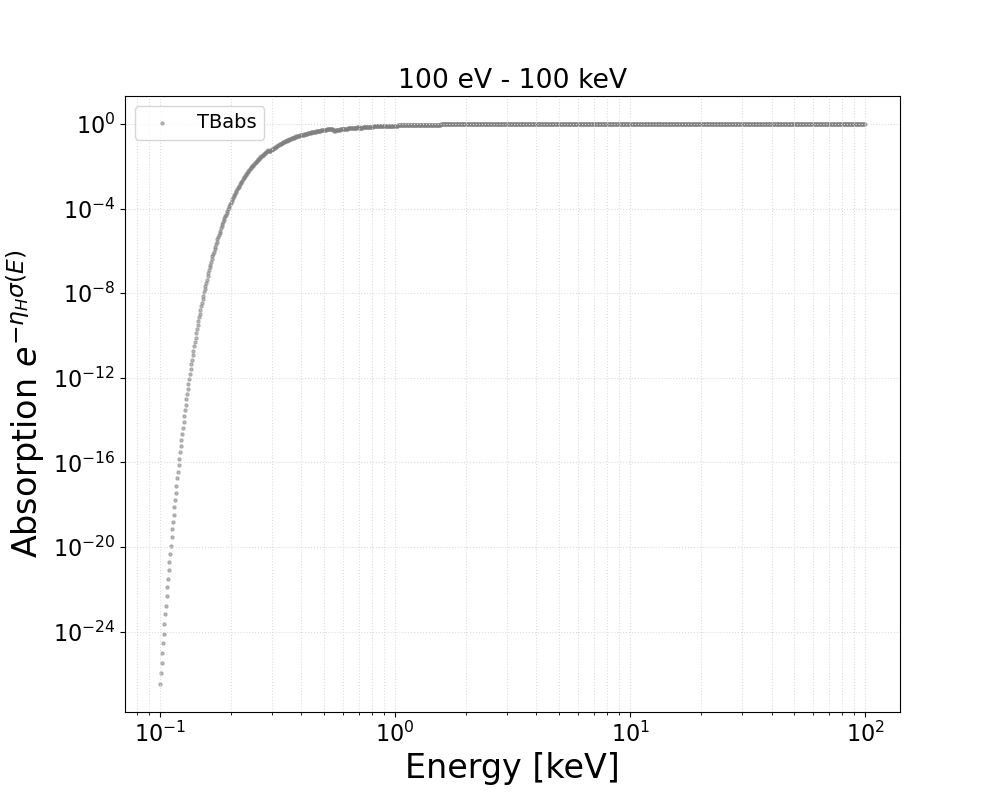
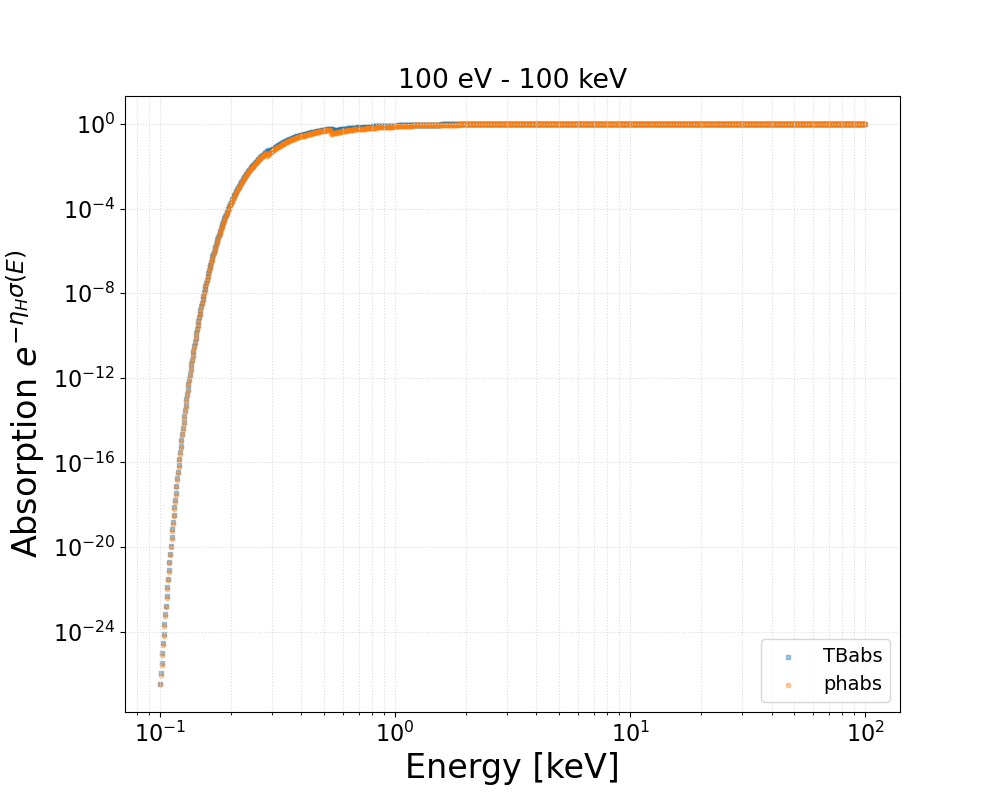
feat: plot both absorption tables, remove unused code

diff --git a/src/nHDeabsorb/absorption_plots/make_absorption_plots.py b/src/nHDeabsorb/absorption_plots/make_absorption_plots.py
@@ -1,4 +1,5 @@
 """
+Plot absorption tables in make_table/
 To run: [nHDeabsorb]$  python -m  absorption_plots.make_absorption_plots
 """
 
@@ -11,155 +12,52 @@ import numpy as np
 # Set global plot parameters
 plt.rcParams.update(
     {'font.size': 16, 'figure.figsize': (10, 8), 'axes.grid.which': 'both',
-     'grid.color': 'gainsboro', 'grid.linestyle': 'dotted', 'axes.grid': True, 'axes.labelsize': 24,
-     'legend.fontsize': 14})
+        'grid.color': 'gainsboro', 'grid.linestyle': 'dotted', 'axes.grid': True, 'axes.labelsize': 24,
+        'legend.fontsize': 14})
 
 
-def read_tcloutr_spec_data(fn):
-    """Read dat file `fn` created by user in XSpec using tcloutr.
+def plot_absorption_table(fn_abs_list, legend_list):
+    """Plot absorption values as a function of energy in `fn_abs_list`.
+    The first element of `fn_abs_list` corresponds to the first element of `legend_list`.
 
-    The format of this file (order of the columns and so their meanings) is completely determined by the user.
-    Check the XSpec commands that were issued to make sure this file is correctly read.
-
-    An example of `fn` is `spec_default_bin.dat`.
+    Parameters
+    ----------
+    fn_abs_list : list[str]
+        List of filenames of the absorption tables produced by XSpec in make_table/
+    legend_list : list[str]
+        Labels for each filename in `fn_abs_list` in plot legend
     """
-    # skip_rows ?
-    dat = pd.read_csv(fn, header=0, delimiter=' ')
-    # In keV
-    energy = dat.iloc[:, 0].to_numpy()
-    energy_half_bin_width = dat.iloc[:, 1].to_numpy()
-    # This is an energy flux (in keV/cm^2/s) if `eeufspec` was used to write this file
-    eflux = dat.iloc[:, 2].to_numpy()
-    eflux_err = dat.iloc[:, 3].to_numpy()
-    mdl_eflux = dat.iloc[:, 4].to_numpy()
+    
+    markers = ['s', 'o']
 
-    return energy, energy_half_bin_width, eflux, eflux_err, mdl_eflux
-
-
-def plot_deabsorbed_spec(fn, fn_abs):
-    """Plot observed spectrum and deabsorbed spectrum on the same axis"""
-    energy, energy_half_bin_width, eflux, eflux_err, mdl_eflux = read_tcloutr_spec_data(fn)
-
-    ebin_min = energy - energy_half_bin_width
-    ebin_max = energy + energy_half_bin_width
-    abs_bin_avg = get_absorption.xspec_absorption_component(ebin_min, ebin_max, fn_abs, nh=0.101)
-
-    deabsorbed_eflux = eflux / abs_bin_avg
-
-    plt.figure()
-    plt.errorbar(energy, deabsorbed_eflux,
-                 xerr=[energy - ebin_min, ebin_max - energy],
-                 marker='s', markerfacecolor='none', ls=' ', label="Deabsorbed")
-    plt.errorbar(energy, eflux,
-                 xerr=[energy - ebin_min, ebin_max - energy],
-                 marker='s', markerfacecolor='none', ls=' ', label="Observed")
-
-    plt.xlabel('Energy [keV]')
-    plt.loglog()
-    plt.ylabel(r'Flux [keV/cm$^2$/s]')
-    plt.legend()
-    plt.savefig('example_spec.png')
-
-
-def plot_both_absorption_tables(fn_abs_list, legend_labels):
-    """Make a plot of the absorption components in `fn_abs_list`  and energy bin averages to check that the result is reasonable."""
-
-    # Set global plot parameters
-    plt.rcParams.update(
-        {'font.size': 16, 'figure.figsize': (10, 8), 'axes.grid.which': 'both',
-         'grid.color': 'gainsboro', 'grid.linestyle': 'dotted', 'axes.grid': True, 'axes.labelsize': 24,
-         'legend.fontsize': 14})
-    plt.figure()
-    # Create some fake energy bins
-    energy_interp = np.linspace(0.3, 1, 50)
-    # energy_interp = np.logspace(-1, 1, 20)
-    # # Truncate the plot to 0.3 to 10 keV
-    # i = np.where((energy_interp > 0.3) & (energy_interp < 10))
-    # energy_interp = energy_interp[i]
-    ebin_min = energy_interp[:-1]
-    ebin_max = energy_interp[1:]
-    ebin_ctr = np.average((ebin_min, ebin_max), axis=0)
-
+    fig1, ax1 = plt.subplots(1, 1)
+    fig2, ax2 = plt.subplots(1, 1)
     for i, fn_abs in enumerate(fn_abs_list):
-        # Can check `xspec_isolate_tbabs.sh` for header
         dat = pd.read_csv(fn_abs, header=0, delimiter='\s+')
         energy = dat['energy_kev'].to_numpy()
-        # Truncate the plot
-        idx = np.where((energy > 0.3) & (energy < 10))
-        # This header name depends on the value of nH used (nH is here for record keeping),
+         # This header name depends on the value of nH used (nH is here for record keeping),
         # so do not use the header name here
-        absorb = dat.iloc[:, 1].to_numpy()[idx]
-        energy = energy[idx]
-        plt.scatter(energy, absorb, label=legend_labels[i], s=5, color='grey', alpha=0.5)
+        absorb = dat.iloc[:, 1].to_numpy()
+        ax1.scatter(energy, absorb, label=legend_list[i], s=10, alpha=0.4, marker=markers[i])
 
-        '''
-        plt.errorbar(ebin_ctr, xspec_absorb_component(ebin_min, ebin_max, fn_abs),
-                     xerr=[ebin_ctr-ebin_min, ebin_max-ebin_ctr],
-                    marker='s', label=f'Bin average {legend_labels[i]}', markerfacecolor='none', ls=' ')
-        '''
-
-    '''
-    for num in [5, 10, 15, 20, 25, 35]:
-        energy_interp = np.logspace(-0.52, 0, num)
-        ebin_min = energy_interp[:-1]
-        ebin_max = energy_interp[1:]
-        ebin_ctr = np.average((ebin_min, ebin_max), axis=0)
-        plt.errorbar(ebin_ctr, xspec_absorb_component(ebin_min, ebin_max, fn_abs),
-                     xerr=[ebin_ctr-ebin_min, ebin_max-ebin_ctr], markerfacecolor='none', ls=' ', marker='|')
-    '''
-
-    for i in [1, 2, 3, 4, 5]:
-        step_size = i*0.003
-        ebin_ctr = np.arange(0.3, 0.6, step=step_size)
-        ebin_min = ebin_ctr - step_size
-        idx = np.where(ebin_min > 0.3)
-        ebin_max = ebin_ctr + step_size
-        ebin_min, ebin_max, ebin_ctr = ebin_min[idx], ebin_max[idx], ebin_ctr[idx]
-        plt.errorbar(ebin_ctr, get_absorption.xspec_absorption_component(ebin_min, ebin_max, fn_abs),
-                     xerr=[ebin_ctr-ebin_min, ebin_max-ebin_ctr], markerfacecolor='none', ls=' ', marker='|', label=f'step: {step_size} keV')
-
-    plt.xlabel('Energy [keV]')
-    plt.loglog()
-    plt.ylabel(r'Absorption $e^{-\eta_H \sigma(E)}$')
-    plt.legend()
-    plt.savefig('absorption_vs_energy.png')
-    plt.xlim([0.3, 10])
-    plt.savefig('absorption_vs_xrt_energy_range.png')
-
-
-def plot_absorption_table(fn_abs, legend):
-    # Set global plot parameters
-    plt.rcParams.update(
-        {'font.size': 16, 'figure.figsize': (10, 8), 'axes.grid.which': 'both',
-         'grid.color': 'gainsboro', 'grid.linestyle': 'dotted', 'axes.grid': True, 'axes.labelsize': 24,
-         'legend.fontsize': 14})
-    plt.figure()
-    dat = pd.read_csv(fn_abs, header=0, delimiter='\s+')
-    energy = dat['energy_kev'].to_numpy()
-    absorb = dat.iloc[:, 1].to_numpy()
-    plt.scatter(energy, absorb, label=legend, s=5, color='grey', alpha=0.5)
-
-    plt.xlabel('Energy [keV]')
-    plt.loglog()
-    plt.ylabel(r'Absorption $e^{-\eta_H \sigma(E)}$')
-    plt.legend()
-    plt.title('100 eV - 100 keV')
-    plt.savefig('absorption_plots/absorption_vs_energy.png')
+        ax1.set_xlabel('Energy [keV]')
+        ax1.loglog()
+        ax1.set_ylabel(r'Absorption $e^{-\eta_H \sigma(E)}$')
+        ax1.legend()
+        ax1.set_title('100 eV - 100 keV')
+        fig1.savefig('absorption_plots/absorption_vs_energy.png')
     
-    plt.figure()
-    # Truncate the plot to XRT range
-    idx = np.where((energy > 0.3) & (energy < 10))
-    # This header name depends on the value of nH used (nH is here for record keeping),
-    # so do not use the header name here
-    plt.scatter(energy[idx], absorb[idx], label=legend, s=5, color='grey', alpha=0.5)
-    plt.xlabel('Energy [keV]')
-    plt.loglog()
-    plt.ylabel(r'Absorption $e^{-\eta_H \sigma(E)}$')
-    plt.legend()
-    plt.title('Swift-XRT Energy Range')
-    plt.savefig('absorption_plots/absorption_vs_xrt_energy_range.png')
+        # Truncate the plot to XRT range
+        idx = np.where((energy > 0.3) & (energy < 10))
+        ax2.scatter(energy[idx], absorb[idx], label=legend_list[i], s=10, alpha=0.4, marker=markers[i])
+        ax2.set_xlabel('Energy [keV]')
+        ax2.loglog()
+        ax2.set_ylabel(r'Absorption $e^{-\eta_H \sigma(E)}$')
+        ax2.legend()
+        ax2.set_title('Swift-XRT Energy Range')
+        fig2.savefig('absorption_plots/absorption_vs_xrt_energy_range.png')
 
 
 if __name__ == "__main__":
     # Running from package directory nHDeabsorb/src/nHDeabsorb
-    plot_absorption_table('absorption_tables/tbabs_abund_wilm_component.dat', 'TBabs')
+    plot_absorption_table(['absorption_tables/tbabs_abund_wilm_component.dat', 'absorption_tables/phabs_component.dat'], ['TBabs', 'phabs'])
